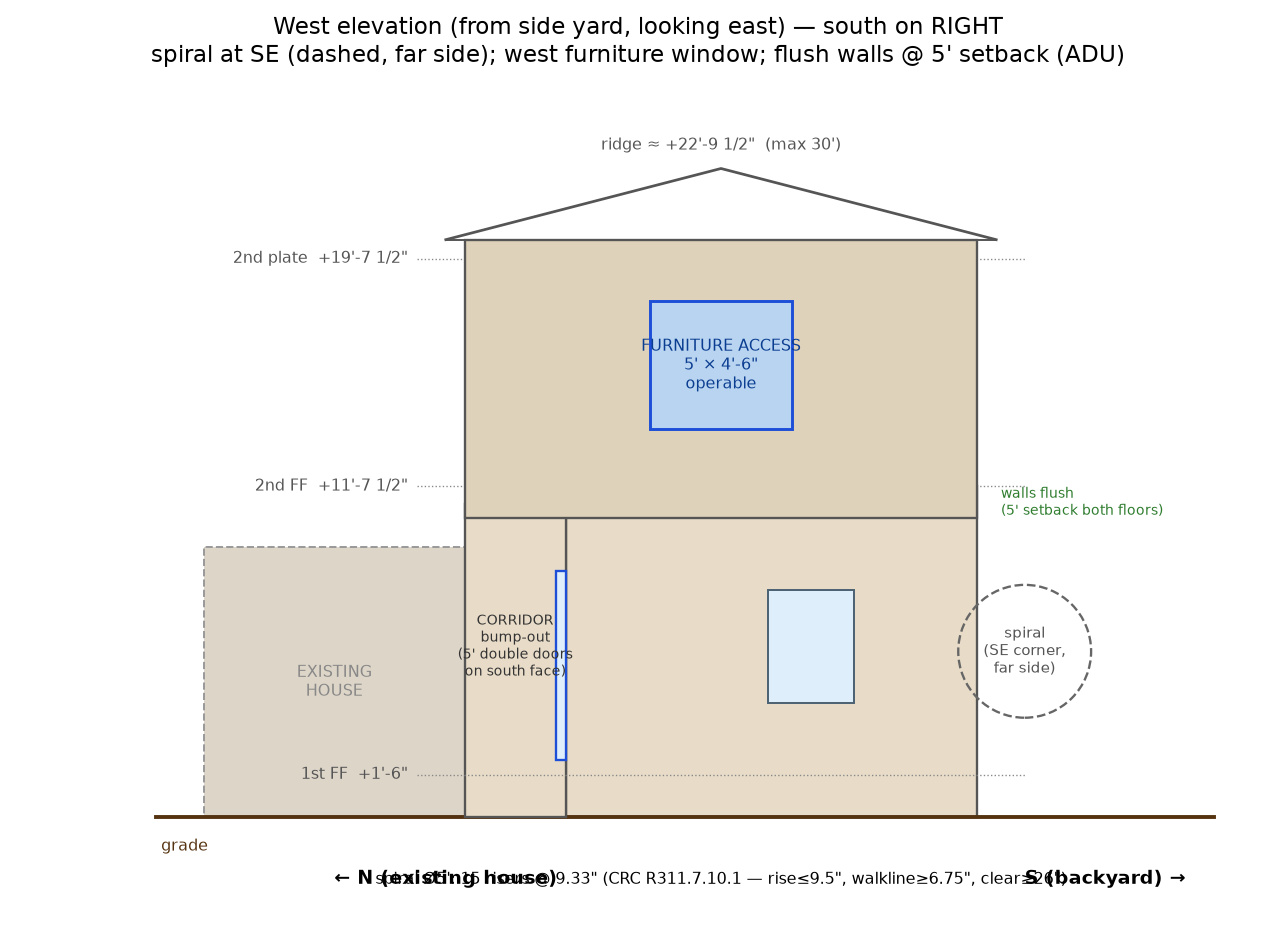
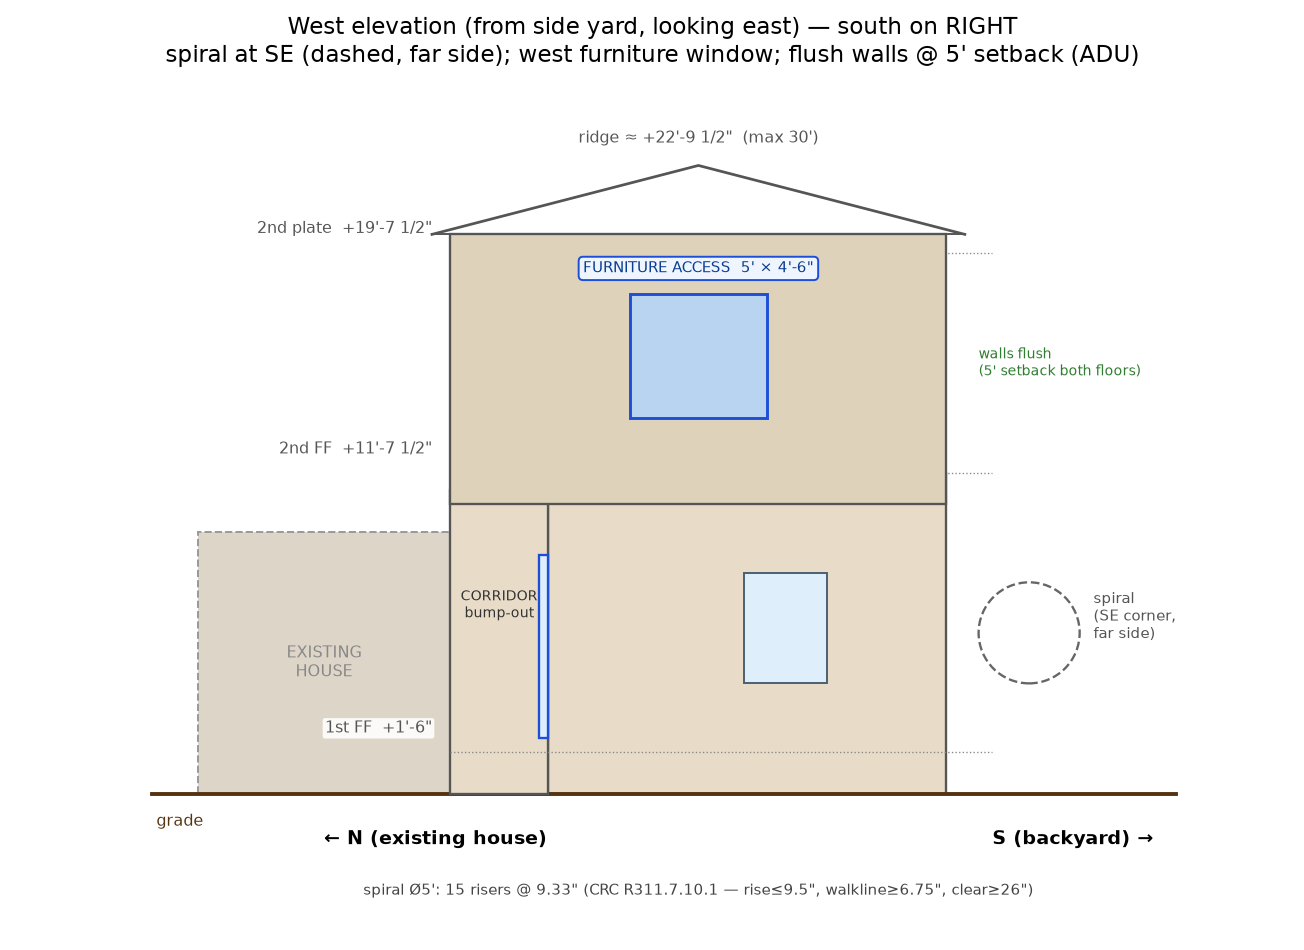
Fix overlapping labels on ADU balcony plans
Reposition west slider/balcony callouts, kitchenette/bath fixture
labels, spiral notes, elevation height tags, and site-plan ADU
annotations so text no longer stacks on doors, walls, or each other.

diff --git a/design/generate_plans.py b/design/generate_plans.py
@@ -248,10 +248,20 @@ def draw_stair_plan(ax, g):
         # UP arrow arc
         ax.add_patch(Arc((cx, cy), r * 1.3, r * 1.3, angle=0, theta1=-20, theta2=200,
                          color="#444444", lw=1.2, zorder=4))
-        ax.text(cx, cy + r + 10, g["summary"], ha="center", fontsize=7.5)
-        ax.text(cx, cy - r - 8, "UP ↻  (people only — furniture via west window)",
-                ha="center", fontsize=7, color="#1d4ed8")
-        return cx + r, cy + r
+        sec = P["second_floor"]
+        if sec.get("west_slider") and sec.get("balcony"):
+            access = "UP ↻  (people — furniture via west slider)"
+        elif sec.get("furniture_window") or sec.get("west_slider"):
+            access = "UP ↻  (people only — furniture via west opening)"
+        else:
+            access = "UP ↻"
+        # keep notes west of spiral (right on plan) so they clear the setback line
+        ax.text(cx + r + 14, cy + 14, access, ha="left", va="bottom", fontsize=7,
+                color="#1d4ed8")
+        ax.text(cx + r + 14, cy - 6,
+                f"spiral Ø{ft_in(g['diameter'])}: {g['risers']} @ {g['riser']:.2f}\"",
+                ha="left", va="top", fontsize=7, color="#444444")
+        return cx + r + 150, cy + r + 20
 
     # L
     tl = draw_stair_rect(ax, g["top_landing"], color="#d9d9d9")
@@ -494,7 +504,13 @@ def second_floor():
     flush = off < 1
     shape = stair_shape()
     title_stair = {"L": "L-stair access", "straight": "straight exterior-stair access",
-                   "spiral": "spiral-stair access + furniture window"}[shape]
+                   "spiral": "spiral-stair access"}[shape]
+    if s.get("west_slider") and s.get("balcony"):
+        title_stair = "spiral access + west slider / balcony"
+    elif s.get("furniture_window"):
+        title_stair = "spiral-stair access + furniture window"
+    elif s.get("west_slider"):
+        title_stair = "spiral access + west slider"
     if has_kit:
         room_title = "ADU studio (kitchenette + full bath)"
     elif bath_type == "toilet_only":
@@ -547,32 +563,43 @@ def second_floor():
         wall_rect(ax, x0 + EXT, y_bath, bathw, INT)
         wall_rect(ax, x0 + EXT + bathw, EXT, INT, bathd)
         wall_rect(ax, x0 + EXT + bathw + INT, y_kit, kit_w, INT)
-        room(ax, x0 + EXT, EXT, bathw, bathd, "BATH",
-             f"{ft_in(bathw)} × {ft_in(bathd)}", fs=8, dy=8)
-        room(ax, x0 + EXT + bathw + INT, EXT, kit_w, kit_d, "KITCHENETTE",
-             f"{ft_in(kit_w)} × {ft_in(kit_d)}", fs=7, dy=0)
+        # bath fill (fixture labels only — room name would collide in this small bath)
+        ax.add_patch(Rectangle((x0 + EXT, EXT), bathw, bathd,
+                               facecolor=ROOM_COLOR, edgecolor="none", zorder=1))
+        ax.text(x0 + EXT + 2, EXT + bathd - 6, f"{ft_in(bathw)}×{ft_in(bathd)}",
+                ha="left", va="top", fontsize=6, zorder=5, color="#666666")
+        # kitchenette fill
+        ax.add_patch(Rectangle((x0 + EXT + bathw + INT, EXT), kit_w, kit_d,
+                               facecolor=ROOM_COLOR, edgecolor="none", zorder=1))
         # studio fill
         ax.add_patch(Rectangle((x0 + EXT, y_bath + INT), iw, idp - bathd - INT,
                                facecolor=ROOM_COLOR, edgecolor="none", zorder=1))
         ax.add_patch(Rectangle((x0 + EXT + bathw + INT, y_kit + INT), kit_w,
                                bathd - kit_d, facecolor=ROOM_COLOR,
                                edgecolor="none", zorder=1))
-        ax.text(x0 + EXT + iw / 2, y_bath + INT + (idp - bathd - INT) / 2,
+        ax.text(x0 + EXT + iw / 2, y_bath + INT + (idp - bathd - INT) / 2 + 20,
                 f"ADU STUDIO\nliving / sleeping\n{ft_in(iw)} wide",
                 ha="center", va="center", fontsize=10, zorder=5, color="#333333")
-        fixture(ax, x0 + EXT, EXT + 4, 36, 36, "SHOWER\n36×36")
-        fixture(ax, x0 + EXT + 42, EXT, 30, 28, "WC")
-        fixture(ax, x0 + EXT + bathw - 40, y_bath - 22, 36, 22, "VANITY")
+        fixture(ax, x0 + EXT, EXT + 4, 34, 34, "SHWR", fs=6)
+        fixture(ax, x0 + EXT + 40, EXT + 2, 28, 26, "WC", fs=6)
+        # vanity on south bath wall (east of door), clear of WC
+        fixture(ax, x0 + EXT + 8, y_bath - 20, 34, 18, "VAN", fs=5.5)
         door(ax, x0 + EXT + bathw / 2 - 14, y_bath, 28, horizontal=True)
-        # kitchenette fixtures along north wall
+        # kitchenette appliance boxes (no in-box labels — avoids collisions)
         kx = x0 + EXT + bathw + INT
-        fixture(ax, kx + 4, EXT, 30, 24, "SINK")
-        fixture(ax, kx + 38, EXT, 30, 24, "COOK\nTOP")
-        fixture(ax, kx + kit_w - 28, EXT, 24, 28, "MINI\nFRIDGE")
-        fixture(ax, x0 + EXT + iw - 70, y_bath + INT + 24, 60, 30, "BED / SOFA")
+        ax.add_patch(Rectangle((kx + 4, EXT), 26, 20, facecolor=FIXTURE_COLOR,
+                               edgecolor="#4a6172", lw=0.8, zorder=4))
+        ax.add_patch(Rectangle((kx + 34, EXT), 26, 20, facecolor=FIXTURE_COLOR,
+                               edgecolor="#4a6172", lw=0.8, zorder=4))
+        ax.add_patch(Rectangle((kx + kit_w - 26, EXT), 24, 22, facecolor=FIXTURE_COLOR,
+                               edgecolor="#4a6172", lw=0.8, zorder=4))
+        ax.text(x0 + EXT + bathw + INT + kit_w / 2, y_bath + INT + 22,
+                f"KITCHENETTE  {ft_in(kit_w)}×{ft_in(kit_d)}  (sink · cook · fridge)",
+                ha="center", va="bottom", fontsize=6.5, zorder=5, color="#333333")
+        fixture(ax, x0 + EXT + iw - 70, y_bath + INT + 56, 60, 28, "BED / SOFA")
         west_win_y0 = y_bath + INT + 24
         west_win_span = idp - bathd - INT - 48
-        ax.text(x0 + EXT + 4, -12, "ADU — confirm CA/Richmond ADU standards with Planning",
+        ax.text(x0 + EXT + 4, -52, "ADU — confirm CA/Richmond ADU standards with Planning",
                 fontsize=7.5, color="#8a4b00",
                 bbox=dict(boxstyle="round", fc="#fff8e8", ec="#e07000"))
     else:
@@ -621,10 +648,6 @@ def second_floor():
                 color="#4a6172", lw=1.2, zorder=5)
         ax.plot([x0 + W - EXT / 2, x0 + W - EXT / 2], [wy, wy + sw_draw],
                 color="#4a6172", lw=0.8, zorder=5)
-        ax.text(x0 + W + 8, wy + sw_draw / 2,
-                f"SLIDING DOORS\n{ft_in(sw)} × {ft_in(sh)}\n→ west balcony",
-                ha="left", va="center", fontsize=7.5, color="#1d4ed8",
-                bbox=dict(boxstyle="round", fc="#eef5ff", ec="#1d4ed8"))
         if s.get("balcony"):
             bd = s.get("balcony_depth", 48)
             bw = s.get("balcony_width", 120)
@@ -638,11 +661,21 @@ def second_floor():
             ax.plot([x0 + W, x0 + W + bd], [by, by], color="#555555", lw=1.4, zorder=3)
             ax.plot([x0 + W, x0 + W + bd], [by + bw, by + bw],
                     color="#555555", lw=1.4, zorder=3)
-            ax.text(x0 + W + bd / 2, by + bw / 2,
-                    f"BALCONY\n{ft_in(bw)} × {ft_in(bd)}\nguard 42\"",
-                    ha="center", va="center", fontsize=7.5, color="#3d2e1a", zorder=4)
-            dim_h(ax, x0 + W, x0 + W + bd, by - 10, label=ft_in(bd))
-            bal_xmax = x0 + W + bd + 20
+            ax.text(x0 + W + bd / 2, by + bw / 2 + 8, "BALCONY",
+                    ha="center", va="center", fontsize=7, color="#3d2e1a", zorder=4)
+            dim_h(ax, x0 + W, x0 + W + bd, by - 14, label=ft_in(bd))
+            # callout clear of balcony (to the west)
+            ax.text(x0 + W + bd + 12, wy + sw_draw / 2,
+                    f"SLIDING DOORS\n{ft_in(sw)} × {ft_in(sh)}\n"
+                    f"balcony {ft_in(bw)} × {ft_in(bd)}\nguard 42\"",
+                    ha="left", va="center", fontsize=7.5, color="#1d4ed8",
+                    bbox=dict(boxstyle="round", fc="#eef5ff", ec="#1d4ed8"))
+            bal_xmax = x0 + W + bd + 95
+        else:
+            ax.text(x0 + W + 8, wy + sw_draw / 2,
+                    f"SLIDING DOORS\n{ft_in(sw)} × {ft_in(sh)}",
+                    ha="left", va="center", fontsize=7.5, color="#1d4ed8",
+                    bbox=dict(boxstyle="round", fc="#eef5ff", ec="#1d4ed8"))
     elif s.get("furniture_window"):
         fw = s.get("furniture_window_width", 72)
         wy = west_win_y0 if bath_type == "toilet_only" or has_kit else west_win_y0
@@ -661,21 +694,25 @@ def second_floor():
 
     ax.add_patch(Rectangle((0, 0), f["main_block_ext_width"], f["main_block_ext_depth"],
                            fill=False, edgecolor="#999999", lw=1.0, linestyle=":", zorder=0))
-    flush_note_x = bal_xmax + 8 if s.get("balcony") else x0 + W + 8
     if flush:
-        ax.text(flush_note_x, D / 2, "walls flush\nwith 1st floor\n(5' setback)",
-                ha="left", va="center", fontsize=7.5, color="#2f7d2f")
+        # keep flush note clear of balcony callouts (south of balcony / callout)
+        if s.get("balcony"):
+            ax.text(bal_xmax + 8, D - 20, "walls flush\nwith 1st floor\n(5' setback)",
+                    ha="left", va="center", fontsize=7.5, color="#2f7d2f")
+        else:
+            ax.text(x0 + W + 8, D / 2, "walls flush\nwith 1st floor\n(5' setback)",
+                    ha="left", va="center", fontsize=7.5, color="#2f7d2f")
     else:
         ax.text(off - 6, f["main_block_ext_depth"] / 2, "first floor\nbelow\n(4'-0\" offset)",
                 ha="center", va="center", fontsize=7, color="#888888", rotation=90)
     ax.plot([-20, x0 + W + 30], [0, 0], color="#aaaaaa", lw=1.2, linestyle="--", zorder=0)
-    ax.text(x0 + W + 34, -2, "existing 1-story house / roof below ↓",
-            ha="left", va="top", fontsize=7, color="#888888")
+    ax.text(x0 + W / 2, -2, "existing 1-story house / roof below ↓",
+            ha="center", va="top", fontsize=7, color="#888888")
     fW = f["main_block_ext_width"]
     if abs((x0 + W) - fW) > 2:
         dim_h(ax, fW, x0 + W, -16, label=f"{ft_in(x0 + W - fW)} cantilever")
     else:
-        dim_h(ax, 0, W, -16, label="flush with 1st floor")
+        dim_h(ax, 0, W, -28, label="flush with 1st floor")
 
     g = stair_geom()
     xmax, ymax = draw_stair_plan(ax, g)
@@ -776,8 +813,8 @@ def site_plan():
     shy = ld - sh["from_rear_pl"] - sh["depth"]
     ax.add_patch(Rectangle((sh["x0"], shy), sh["width"], sh["depth"],
                            facecolor="#d3c7b5", edgecolor="#7a6a55", lw=1.0))
-    ax.text(sh["x0"] + sh["width"] / 2, shy + sh["depth"] / 2,
-            "SHED 135 sq ft\n(verify position)", ha="center", va="center", fontsize=7.5)
+    ax.text(sh["x0"] + sh["width"] / 2, shy + sh["depth"] + 1.5,
+            "SHED 135 sq ft\n(verify position)", ha="center", va="bottom", fontsize=7.5)
 
     ay = hy + hd
     aw = f["main_block_ext_width"] / 12.0
@@ -789,7 +826,8 @@ def site_plan():
                            edgecolor="#3c6e3c", lw=1.4))
     ax.add_patch(Rectangle((e_gf + aw, ay), cw, cd, facecolor="#9ec99e",
                            edgecolor="#3c6e3c", lw=1.4))
-    ax.text(e_gf + aw / 2, ay + ad / 2 - 2, "ADDITION\nground floor",
+    # ground-floor label toward house (north); 2nd-floor label toward yard (south)
+    ax.text(e_gf + aw / 2, ay + ad * 0.28, "ADDITION\nground floor",
             ha="center", va="center", fontsize=8)
 
     sx = e_uf
@@ -799,19 +837,23 @@ def site_plan():
                            lw=1.4, linestyle="-."))
     label = "2nd fl ADU\n(flush walls)" if sec.get("kitchenette") else "2nd floor"
     if flush and sec.get("kitchenette"):
-        label = "2nd fl ADU (flush @ 5')"
-    ax.text(sx + sw2 / 2, ay + ad / 2 + 3.5, label, ha="center",
-            fontsize=8, color="#1d4ed8")
+        label = "2nd fl ADU\n(flush @ 5')"
 
+    bal_extra = 0.0
     if sec.get("balcony"):
         bd_ft = sec.get("balcony_depth", 48) / 12.0
         bw_ft = sec.get("balcony_width", 120) / 12.0
-        # center on west face of addition (x increases west)
         by0 = ay + (ad - bw_ft) / 2
         ax.add_patch(Rectangle((e_gf + aw, by0), bd_ft, bw_ft,
                                facecolor="#c8b89a", edgecolor="#6b5a3e", lw=1.0))
-        ax.text(e_gf + aw + bd_ft / 2, by0 + bw_ft / 2, "BALCONY",
-                ha="center", va="center", fontsize=6.5, color="#3d2e1a")
+        ax.text(e_gf + aw + bd_ft + 1.2, ay + ad * 0.4, label, ha="left", va="center",
+                fontsize=7.5, color="#1d4ed8",
+                bbox=dict(boxstyle="round", fc="white", ec="#1d4ed8", alpha=0.92))
+        ax.text(e_gf + aw + bd_ft / 2, by0 - 0.6, "balcony",
+                ha="center", va="top", fontsize=6, color="#3d2e1a")
+    else:
+        ax.text(sx + sw2 / 2, ay + ad * 0.72, label, ha="center", va="center",
+                fontsize=8, color="#1d4ed8")
 
     g = stair_geom()
     draw_stair_site(ax, g, e_gf, ay)
@@ -889,8 +931,9 @@ def south_elevation():
 
     for y, lbl in [(ff, f'1st FF  +{ft_in(ff)}'), (sf, f'2nd FF  +{ft_in(sf)}'),
                    (plate2, f'2nd plate  +{ft_in(plate2)}')]:
-        ax.plot([xd(W1) - 6, xd(0) + 6], [y, y], color="#888888", lw=0.7, linestyle=":")
-        ax.text(xd(W1) - 10, y, lbl, ha="right", va="center", fontsize=8, color="#555555")
+        ax.plot([xd(W1) + 8, xd(0) + 6], [y, y], color="#888888", lw=0.7, linestyle=":")
+        ax.text(xd(W1) - 8, y + 7, lbl, ha="right", va="bottom", fontsize=8, color="#555555",
+                bbox=dict(boxstyle="round,pad=0.15", fc="white", ec="none", alpha=0.9))
     ax.text(xd(W2 / 2 + off), ridge + 8, f"ridge ≈ +{ft_in(ridge)}  (max 30')",
             ha="center", fontsize=8, color="#555555")
 
@@ -900,8 +943,9 @@ def south_elevation():
                            facecolor="#dfeefb", edgecolor="#4a6172", lw=1))
     ax.add_patch(Rectangle((xd(W1 / 2 + 24 - off / 2), ff + 30), 48, 48,
                            facecolor="#dfeefb", edgecolor="#4a6172", lw=1))
-    ax.text(xd(W1 / 2 - off / 2), ff + 20, "bedroom egress", ha="center",
-            fontsize=7, color="#4a6172")
+    ax.text(xd(W1 / 2 - off / 2), ff + 8, "bedroom egress", ha="center",
+            fontsize=7, color="#4a6172",
+            bbox=dict(boxstyle="round,pad=0.15", fc="white", ec="none", alpha=0.9))
 
     if sec.get("balcony"):
         bd = sec.get("balcony_depth", 48)
@@ -911,7 +955,7 @@ def south_elevation():
                                edgecolor="#553311", lw=1.0, zorder=5))
         ax.plot([xd(bx + bd), xd(bx + bd)], [sf, sf + 42], color="#555555", lw=1.2, zorder=5)
         ax.plot([xd(bx), xd(bx + bd)], [sf + 42, sf + 42], color="#555555", lw=1.2, zorder=5)
-        ax.text(xd(bx + bd / 2), sf + 50, "balcony", ha="center", fontsize=7,
+        ax.text(xd(bx + bd / 2), sf - 18, "balcony", ha="center", fontsize=7,
                 color="#3d2e1a")
 
     if shape == "straight":
@@ -944,12 +988,13 @@ def south_elevation():
         for i in range(0, g["risers"], 2):
             y = i * riser_h
             ax.plot([xd(cx + r), xd(cx - r)], [y, y], color="#888888", lw=0.5)
-        ax.text(xd(cx), st["total_rise"] / 2,
-                f"SPIRAL\nØ{ft_in(g['diameter'])}\n{g['risers']} risers\n@ {riser_h:.2f}\"",
-                ha="center", va="center", fontsize=8)
+        ax.text(xd(cx - r) + 14, st["total_rise"] * 0.72,
+                f"SPIRAL\nØ{ft_in(g['diameter'])}\n{g['risers']} @ {riser_h:.2f}\"",
+                ha="left", va="center", fontsize=7.5,
+                bbox=dict(boxstyle="round", fc="white", ec="#888888", alpha=0.92))
         ax.plot([xd(off + st["top_landing"]), xd(off)],
                 [st["total_rise"], st["total_rise"]], color="#333333", lw=2.0)
-        xmin = xd(W1 + 40) - 40
+        xmin = min(xd(W1 + 40) - 40, xd(cx - r) - 20)
     else:
         run = g["tread"]
         x_top = off + st["top_landing"]
@@ -979,12 +1024,12 @@ def south_elevation():
                 ha="center", va="center", fontsize=7, color="#555555")
         xmin = xd(W1 + 90)
 
-    ax.text(xd(off + W2 / 2), -22, g["summary"] + " | guard 42\", handrail 34–38\"",
-            fontsize=8, ha="center")
-    ax.text(xd(0) + 30, 10, "E →", fontsize=10, weight="bold")
-    ax.text(xd(W1) - 30, 10, "← W", fontsize=10, weight="bold")
-    ax.set_xlim(xmin, xd(0) + 80)
-    ax.set_ylim(-40, ridge + 40)
+    ax.text(xd(off + W2 / 2), -28, g["summary"] + " | guard 42\", handrail 34–38\"",
+            fontsize=7.5, ha="center")
+    ax.text(xd(0) + 30, -8, "E →", fontsize=10, weight="bold")
+    ax.text(xd(W1) - 30, -8, "← W", fontsize=10, weight="bold")
+    ax.set_xlim(xmin, xd(0) + 100)
+    ax.set_ylim(-48, ridge + 40)
     fig.savefig(out_path("south-elevation.png"), dpi=140, bbox_inches="tight")
     plt.close(fig)
     return {"second_ff_in": sf, "ridge_ft": ridge / 12.0}
@@ -1057,8 +1102,7 @@ def west_elevation():
                            edgecolor="#555555", lw=1.2, zorder=2))
     ax.add_patch(Rectangle((cor_d - 4, ff + 6), 4, 80, facecolor="#dfeefb",
                            edgecolor="#1d4ed8", lw=1.2, zorder=3))
-    ax.text(cor_d / 2, ff + c1 / 2,
-            f"CORRIDOR\nbump-out\n({ft_in(door_w)} {door_short}\non south face)",
+    ax.text(cor_d / 2, ff + c1 / 2 + 10, "CORRIDOR\nbump-out",
             ha="center", va="center", fontsize=7, color="#333333", zorder=4)
 
     # first-floor main-block west wall
@@ -1083,15 +1127,10 @@ def west_elevation():
         # Align with studio portion of west wall (south of bath/kitchenette)
         bathd = sec.get("bath_interior_depth", 60)
         sy0 = EXT + bathd + INT + 16
-        if sec.get("kitchenette"):
-            sy0 = EXT + bathd + INT + 16
         ax.add_patch(Rectangle((sy0, sf), sw, sh, facecolor="#b8d4f0",
                                edgecolor="#1d4ed8", lw=1.5, zorder=4))
         ax.plot([sy0 + sw / 2, sy0 + sw / 2], [sf, sf + sh],
                 color="#1d4ed8", lw=1.2, zorder=5)
-        ax.text(sy0 + sw / 2, sf + sh / 2,
-                f"SLIDING DOORS\n{ft_in(sw)} × {ft_in(sh)}",
-                ha="center", va="center", fontsize=8, color="#0b3d91", zorder=5)
         if sec.get("balcony"):
             bw = sec.get("balcony_width", 120)
             bd = sec.get("balcony_depth", 48)
@@ -1103,18 +1142,27 @@ def west_elevation():
             ax.plot([by, by + bw], [sf + 42, sf + 42], color="#333333", lw=1.6, zorder=6)
             ax.plot([by, by], [sf, sf + 42], color="#333333", lw=1.4, zorder=6)
             ax.plot([by + bw, by + bw], [sf, sf + 42], color="#333333", lw=1.4, zorder=6)
-            ax.text(by + bw / 2, sf + 52,
-                    f"BALCONY  {ft_in(bw)} wide × {ft_in(bd)} deep  ·  guard 42\"",
-                    ha="center", fontsize=7.5, color="#3d2e1a", zorder=6)
+            # callout above railing, further left (clear of 2nd FF label)
+            ax.text(max(8, by - 40), sf + 58,
+                    f"slider {ft_in(sw)} × {ft_in(sh)}\n"
+                    f"balcony {ft_in(bw)} × {ft_in(bd)}\nguard 42\"",
+                    ha="right", va="bottom", fontsize=7.5, color="#0b3d91", zorder=7,
+                    bbox=dict(boxstyle="round", fc="#eef5ff", ec="#1d4ed8"))
+        else:
+            ax.text(sy0 - 8, sf + sh / 2,
+                    f"SLIDER\n{ft_in(sw)} × {ft_in(sh)}",
+                    ha="right", va="center", fontsize=7.5, color="#0b3d91", zorder=7,
+                    bbox=dict(boxstyle="round", fc="#eef5ff", ec="#1d4ed8"))
     elif sec.get("furniture_window"):
         fw = sec.get("furniture_window_width", 72)
         fh = sec.get("furniture_window_height", 60)
         sill = sf + sec.get("furniture_window_sill", 24)
         ax.add_patch(Rectangle((D / 2 - fw / 2, sill), fw, fh, facecolor="#b8d4f0",
                                edgecolor="#1d4ed8", lw=1.5, zorder=4))
-        ax.text(D / 2, sill + fh / 2,
-                f"FURNITURE ACCESS\n{ft_in(fw)} × {ft_in(fh)}\noperable",
-                ha="center", va="center", fontsize=8, color="#0b3d91", zorder=5)
+        ax.text(D / 2, sill + fh + 8,
+                f"FURNITURE ACCESS  {ft_in(fw)} × {ft_in(fh)}",
+                ha="center", va="bottom", fontsize=7.5, color="#0b3d91", zorder=5,
+                bbox=dict(boxstyle="round", fc="#eef5ff", ec="#1d4ed8"))
     else:
         ax.add_patch(Rectangle((D / 2 + 10, sf + 36), 48, 48, facecolor="#dfeefb",
                                edgecolor="#4a6172", lw=1, zorder=4))
@@ -1125,15 +1173,16 @@ def west_elevation():
 
     for y, lbl in [(ff, f'1st FF  +{ft_in(ff)}'), (sf, f'2nd FF  +{ft_in(sf)}'),
                    (plate2, f'2nd plate  +{ft_in(plate2)}')]:
-        ax.plot([-20, D + 20], [y, y], color="#888888", lw=0.7, linestyle=":")
-        ax.text(-24, y, lbl, ha="right", va="center", fontsize=8, color="#555555")
-    ax.text(mid, ridge + 8, f"ridge ≈ +{ft_in(ridge)}  (max 30')",
+        ax.plot([0, D + 20], [y, y], color="#888888", lw=0.7, linestyle=":")
+        ax.text(-8, y + 7, lbl, ha="right", va="bottom", fontsize=8, color="#555555",
+                bbox=dict(boxstyle="round,pad=0.15", fc="white", ec="none", alpha=0.9))
+    ax.text(mid, ridge + 10, f"ridge ≈ +{ft_in(ridge)}  (max 30')",
             ha="center", fontsize=8, color="#555555")
     if abs(cant_in) >= 2:
-        ax.text(D + 10, sf - fl / 2, "2'-6\" cantilever\n(2nd fl. west face\ntoward viewer)",
+        ax.text(D + 14, sf + c2 / 2, "2'-6\" cantilever\n(2nd fl. west face\ntoward viewer)",
                 fontsize=7, color="#1d4ed8", va="center")
     else:
-        ax.text(D + 10, sf - fl / 2, "walls flush\n(5' setback both floors)",
+        ax.text(D + 14, sf + c2 / 2, "walls flush\n(5' setback both floors)",
                 fontsize=7, color="#2f7d2f", va="center")
 
     if shape == "L":
@@ -1168,17 +1217,17 @@ def west_elevation():
                 ha="center", va="center", fontsize=7.5, color="#555555")
     else:
         # Spiral is on the far (east) side of the south wall — dashed ghost
-        ax.add_patch(Circle((D + 20, st["total_rise"] / 2), 28, fill=False,
+        ax.add_patch(Circle((D + 36, st["total_rise"] / 2), 22, fill=False,
                             edgecolor="#666666", lw=1.2, linestyle="--", zorder=4))
-        ax.text(D + 20, st["total_rise"] / 2,
-                f"spiral\n(SE corner,\nfar side)",
-                ha="center", va="center", fontsize=7.5, color="#555555")
+        ax.text(D + 64, st["total_rise"] * 0.55,
+                "spiral\n(SE corner,\nfar side)",
+                ha="left", va="center", fontsize=7.5, color="#555555")
 
-    ax.text(D / 2, -28, g["summary"], fontsize=8, ha="center")
-    ax.text(-house_d / 2, -28, "← N (existing house)", fontsize=10, weight="bold")
-    ax.text(D + 20, -28, "S (backyard) →", fontsize=10, weight="bold")
-    ax.set_xlim(-house_d - 80, south_extent + 20)
-    ax.set_ylim(-50, ridge + 40)
+    ax.text(-house_d / 2, -22, "← N (existing house)", fontsize=10, weight="bold")
+    ax.text(D + 20, -22, "S (backyard) →", fontsize=10, weight="bold")
+    ax.text(D / 2, -44, g["summary"], fontsize=7.5, ha="center", color="#444444")
+    ax.set_xlim(-house_d - 80, south_extent + 50)
+    ax.set_ylim(-62, ridge + 40)
     fig.savefig(out_path("west-elevation.png"), dpi=140, bbox_inches="tight")
     plt.close(fig)
     return {"cantilever_in": off + W2 - W1, "corridor_depth_in": cor_d}
